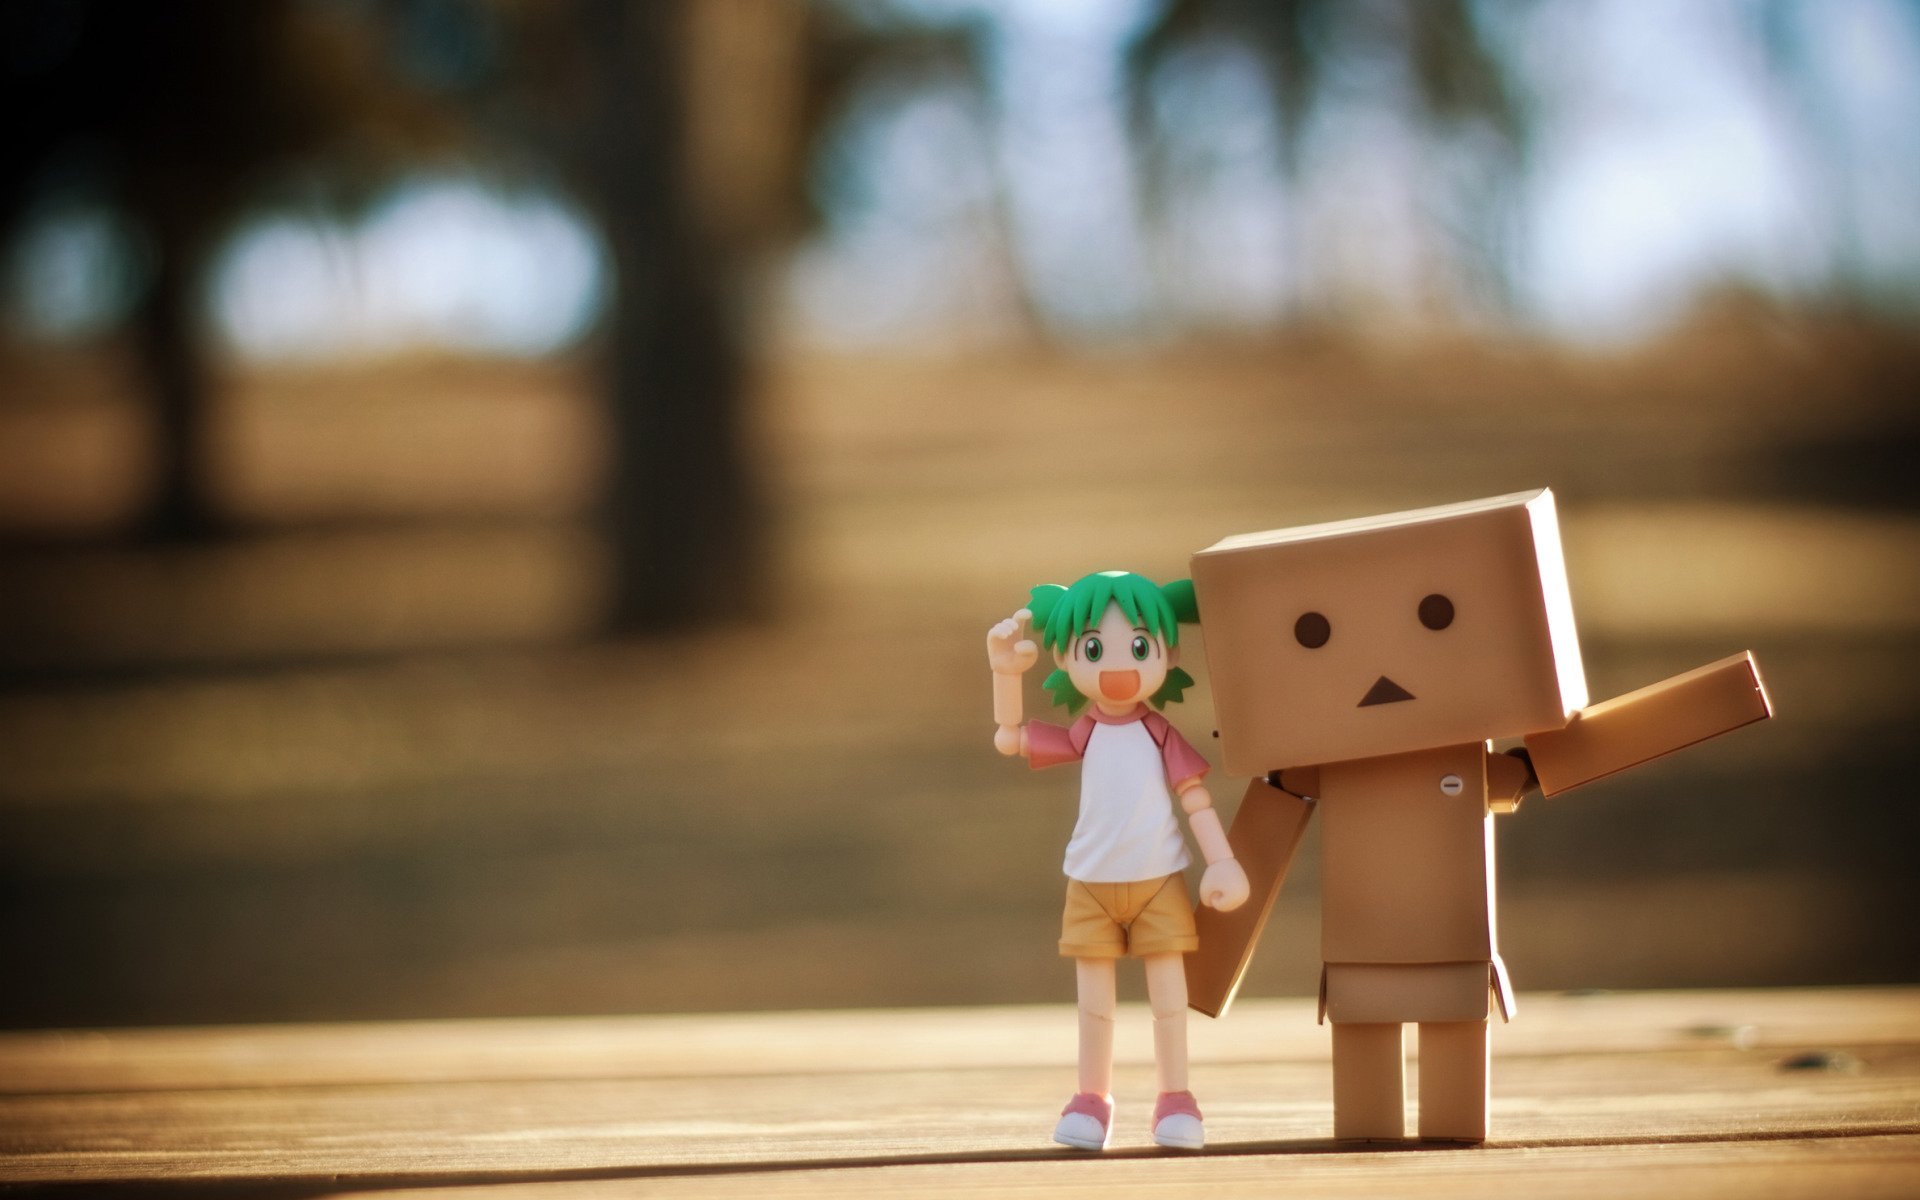
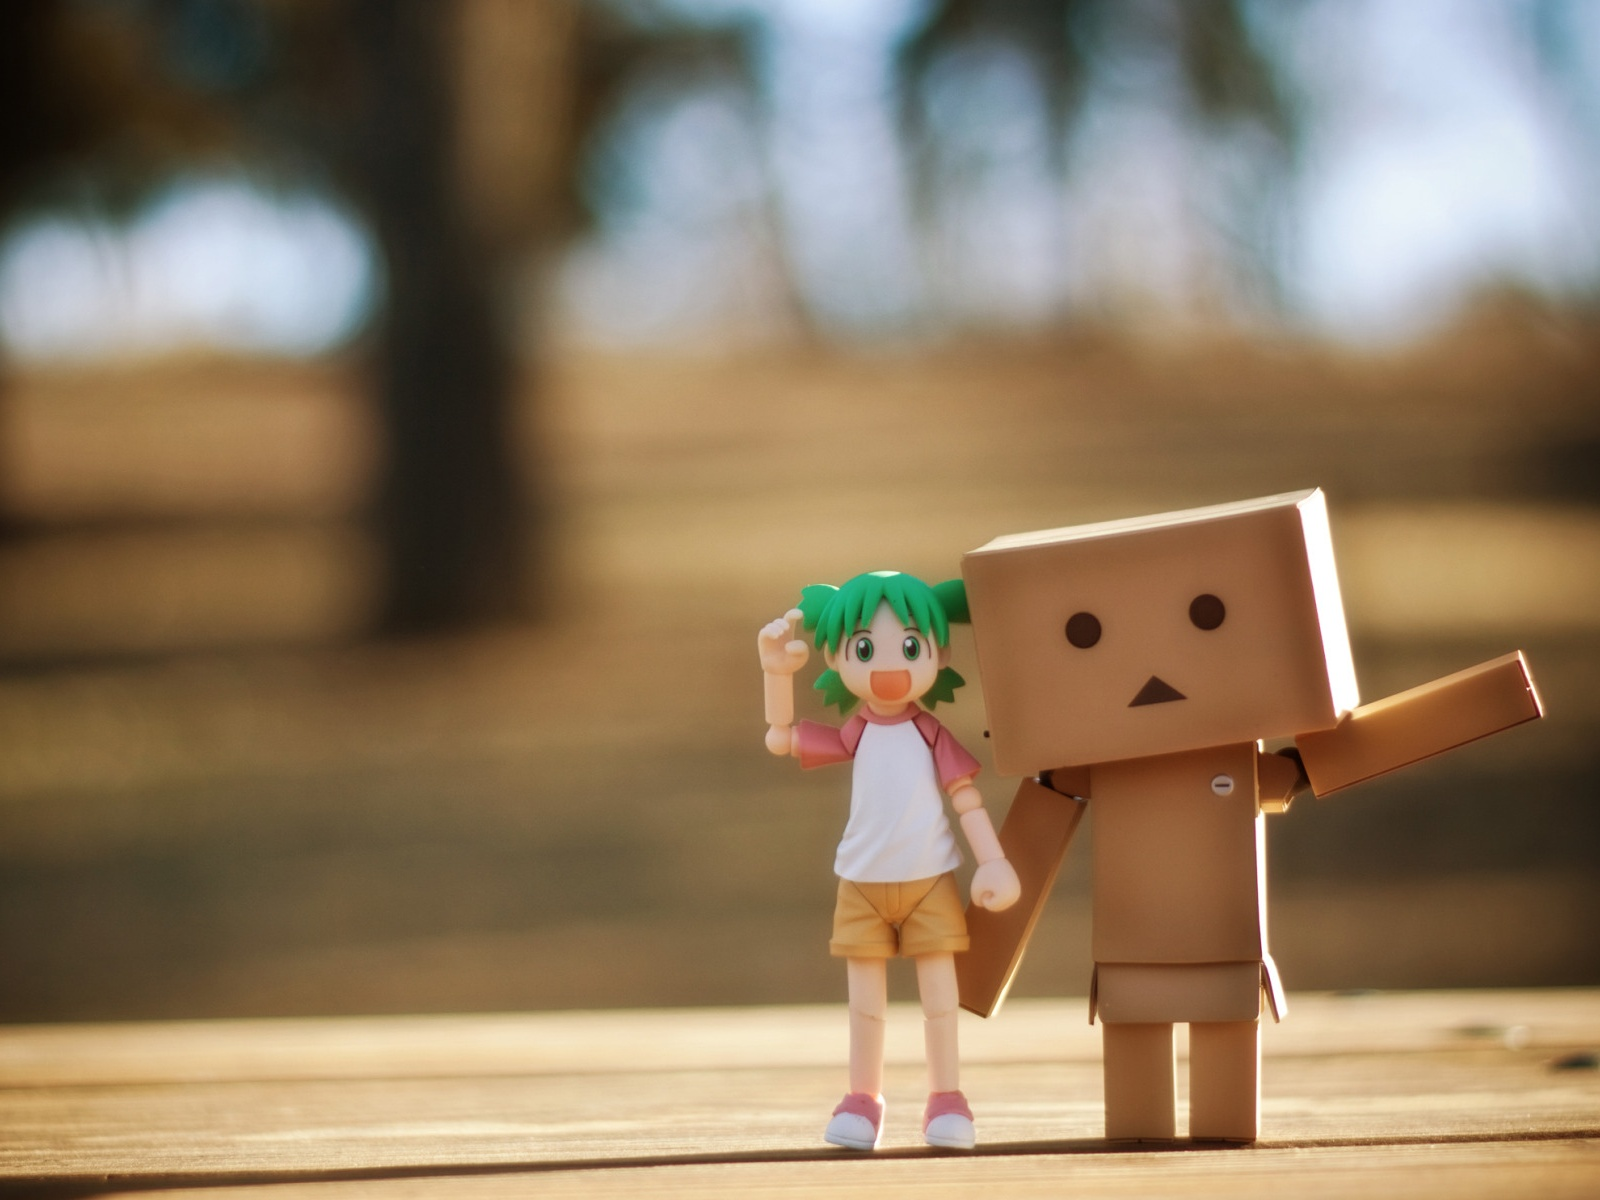
edited photos to make them same size

diff --git a/re-basic-portfolio/bootcamp-portfolio/src/Components/Portfolio.js b/re-basic-portfolio/bootcamp-portfolio/src/Components/Portfolio.js
@@ -7,7 +7,7 @@ import concertPic from "../Images/concert.jpg";
 
 function Portfolio() {
   return (
-    <div className="content">
+    <div className="content" id="portfolio">
       <h1>Portfolio</h1>
       <div className="image">
         <img src={subPic}></img>

diff --git a/re-basic-portfolio/bootcamp-portfolio/src/Components/content.css b/re-basic-portfolio/bootcamp-portfolio/src/Components/content.css
@@ -89,6 +89,10 @@ li {
   padding-top: 20px;
 }
 
+#portfolio {
+  height: 1000px
+}
+
 ul {
   padding-inline-start: 0;
 }
